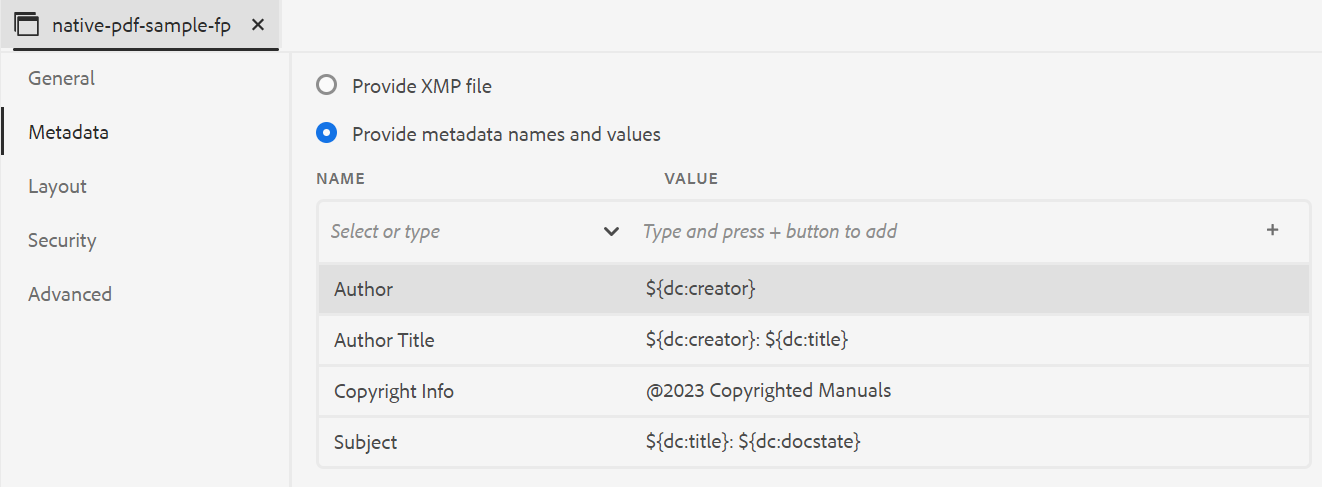
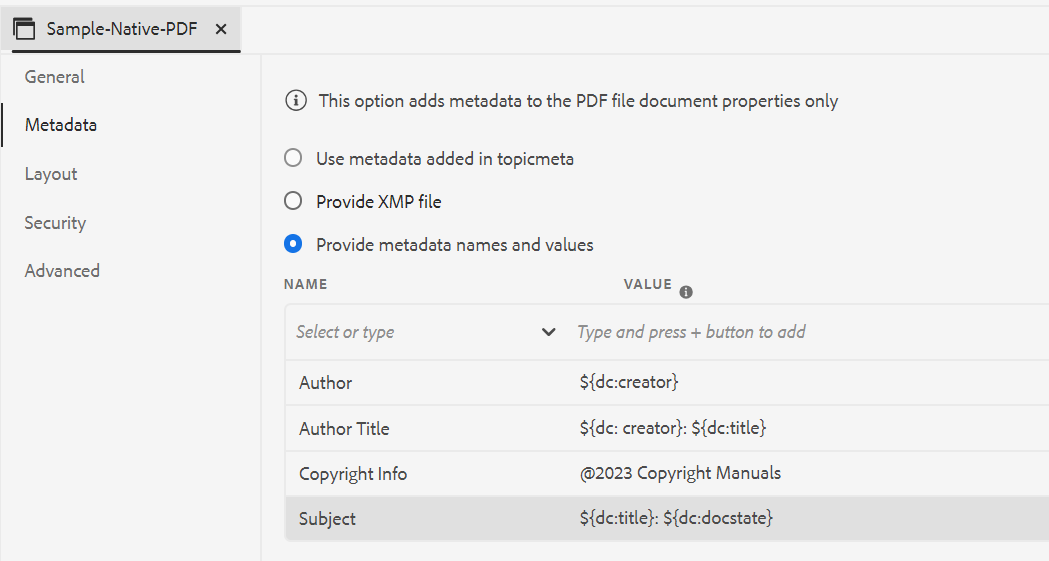
4.4 update

diff --git a/help/product-guide/web-editor/native-pdf-web-editor.md b/help/product-guide/web-editor/native-pdf-web-editor.md
@@ -81,14 +81,18 @@ Use the Metadata tab to set the metadata fileds such as the author's name, docum
 
 This metadata is mapped to the metadata in the Description tab within the Document Properties of your output PDF.  
 
-**Note**: This metadata overrides the metadata defined at the book level. 
+
 
 <img src="assets/pdf-metadata.png" alt="metadata tab" width=600>
 
-From the Output presets, **select PDF** > **Metadata** to add and customize metadata options. 
+From the Output presets, select  **PDF** > **Native-PDF** > **Metadata** to add and customize metadata options. 
+* **Use Metdata added in topicmeta**
+
+   This option is selected by default. You can use the metadata that you have added in the topicmeta element of the DITA map to populate the metadata fields of the PDF output. 
+
 * **Provide XMP file**
 
-   Metadata fields can be directly populated by importing [XMP](https://www.adobe.com/products/xmp.html) (Extensible Metadata Platform) file. You can download a sample XMP file from here.
+  You can also directly populate the metadata fields by importing [XMP](https://www.adobe.com/products/xmp.html) (Extensible Metadata Platform) file. You can download a sample XMP file from here.
    
    [Download](assets/SampleXMP.xmp)
 
